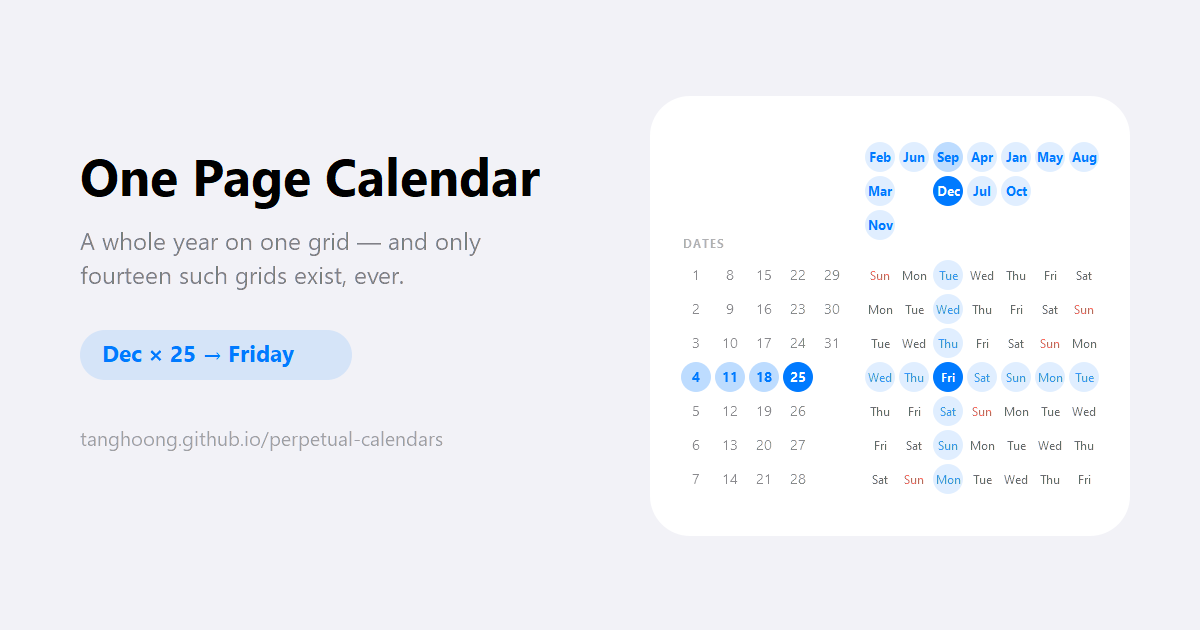
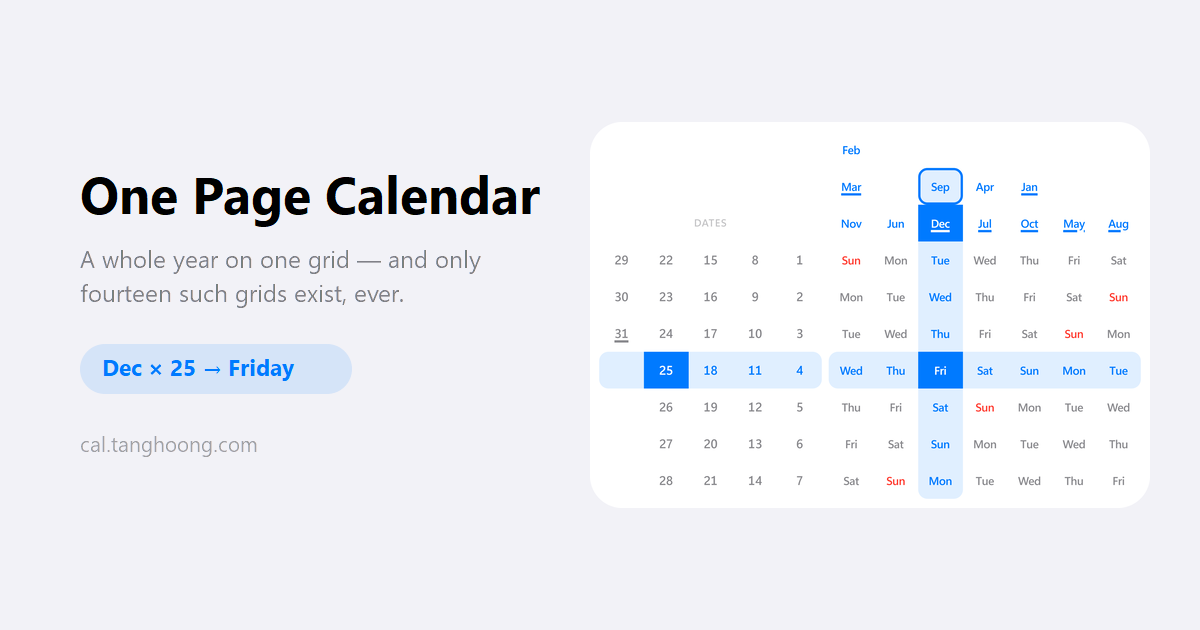
Serve from cal.tanghoong.com
public/CNAME carries the domain into the published artifact; the matching DNS
record is a CNAME on the `cal` host pointing at tanghoong.github.io. A
subdomain wants a CNAME record, not the A/AAAA records an apex needs.

No build code changed to make this work, which was the point of the BASE_PATH
and SITE_URL wiring: a custom domain serves from the root, so configure-pages
simply starts reporting `/` instead of `/perpetual-calendars/`, and the
absolute origin for og:image follows the same way. Only the local fallback
literals moved, so `npm run preview` keeps matching production.

CNAME is excluded from the service worker's precache — it tells GitHub Pages
which domain to answer on and the app never fetches it, so caching it would
only lengthen the install. Its contents still feed the cache version, since a
domain change should invalidate.

The link preview was regenerated from the running app rather than redrawn. The
old one was hand-built and had quietly gone stale: it still showed circles with
gaps, top-packed months and left-to-right dates, none of which the app does any
more. Screenshotting the real card means it cannot drift again.

Also fixes a claim I left behind two commits ago: the features table still
advertised a "Current Year" button that the same change removed.

Note for a future move: a 301 from the old address never reaches a returning
visitor, because the service worker answers navigations from cache before the
[…]

diff --git a/vite.config.ts b/vite.config.ts
@@ -5,13 +5,17 @@ import { defineConfig, type Plugin } from 'vite'
 import react from '@vitejs/plugin-react'
 import tailwindcss from '@tailwindcss/vite'
 
-// GitHub Pages serves this project site from a subpath, so built asset URLs
-// have to carry that prefix or they 404. CI passes the repository's real base
-// path in BASE_PATH (see .github/workflows/deploy.yml), which keeps forks and
-// renames working without a code edit; the literal is the local fallback.
+// Built asset URLs have to carry whatever prefix the site is served from, or
+// they 404. CI passes the real one in BASE_PATH (see
+// .github/workflows/deploy.yml), which keeps a fork or a rename working with no
+// code edit; the literal is only the local fallback.
+//
+// It is `/` because the site serves from the root of cal.tanghoong.com. On a
+// github.io project site it would be `/perpetual-calendars/`, and a fork that
+// has not set up a custom domain still gets that — from CI, not from here.
 // `||` rather than `??` on purpose: an unset step output arrives as '', not
 // undefined, and an empty base would emit root-relative URLs.
-const rawBase = process.env.BASE_PATH || '/perpetual-calendars/'
+const rawBase = process.env.BASE_PATH || '/'
 const base = rawBase.endsWith('/') ? rawBase : `${rawBase}/`
 
 // Open Graph and Twitter card images must be absolute URLs — crawlers fetch
@@ -19,12 +23,18 @@ const base = rawBase.endsWith('/') ? rawBase : `${rawBase}/`
 // not enough. CI supplies the full origin from the same configure-pages step
 // that supplies BASE_PATH; the literal is the local fallback, matching
 // package.json's `homepage`. Trailing slash stripped so the template can own it.
-const siteUrl = (process.env.SITE_URL || 'https://tanghoong.github.io/perpetual-calendars/').replace(
-  /\/+$/,
-  '',
-)
+const siteUrl = (process.env.SITE_URL || 'https://cal.tanghoong.com/').replace(/\/+$/, '')
 
-/** Every file under `public/`, as the paths they are served at. */
+/**
+ * Files the service worker should precache, as the paths they are served at.
+ *
+ * `CNAME` is excluded: it is how GitHub Pages is told which custom domain to
+ * answer on, not something the app ever fetches, so caching it would only
+ * lengthen the install. Its *contents* still feed the cache version, because it
+ * is hashed with the rest of the build — a domain change should invalidate.
+ */
+const PRECACHE_EXCLUDED = new Set(['CNAME'])
+
 const publicFiles = (dir: string, root = dir): string[] =>
   readdirSync(dir).flatMap(entry => {
     const full = join(dir, entry)
@@ -60,10 +70,11 @@ const serviceWorker = (): Plugin => ({
     const hashed = Object.keys(bundle)
     // Stable names, so their contents have to be hashed explicitly.
     const stable = ['index.html', ...publicFiles('public')]
+    const cacheable = stable.filter(f => !PRECACHE_EXCLUDED.has(f))
 
     // Stable order, so an unchanged build produces an unchanged cache name and
     // returning visitors are not handed a pointless re-download.
-    const urls = [...new Set(['', ...stable, ...hashed].map(p => base + p))].sort()
+    const urls = [...new Set(['', ...cacheable, ...hashed].map(p => base + p))].sort()
 
     // Hashing the URL list alone was not enough, and the gap was invisible from
     // the outside: index.html and everything in public/ keep the same filename

diff --git a/README.md b/README.md
@@ -79,7 +79,7 @@ Month and weekday labels switch between **English / 中文 / Melayu / Tiếng Vi
 
 | | |
 |---|---|
-| **Any year, one grid** | Step the year with ◀ / ▶, jump back with **Current Year**, or pick one of the same-grid years below. Only the month labels re-flow. |
+| **Any year, one grid** | Step the year with ◀ / ▶, drag the grid sideways, pick one of the same-grid years below, or jump back with **Today**. Only the month labels re-flow. |
 | **Today, triangulated** | The current month, today's date, and the weekday cell where they intersect are all marked at once — with an outline, not a fill. A fill is what a selection uses, and the two mean different things: selecting the 13th used to put two identical blue squares on screen, one meaning *the answer* and one meaning *today*. |
 | **Crosshair tracing** | Hover or tap any weekday cell and it lights its full row and column — plus the matching months above and the matching dates to the left. The cells are square and the grids have no gaps, so a lit row and column read as one continuous band meeting at a single filled square, rounded at its four outer tips and square everywhere the arms cross. That is the relationship the layout encodes, drawn rather than implied; circles could only ever meet at a point. |
 | **Tap to pin** | On touch devices a tap pins the crosshair until you tap again or press **Clear**, so the lookup survives lifting your finger. Cells are also `<button>`s, so Enter works — and the weekday block is one tab stop with arrow keys inside it, not 49. |
@@ -248,17 +248,32 @@ still hold the token. Only `deploy` can publish, and nothing PR-controlled runs
 there. Every checkout also uses `persist-credentials: false`, so no token is
 left behind in `.git/config`.
 
-### The base path
+### The domain and the base path
 
-The site serves from `https://tanghoong.github.io/perpetual-calendars/`, so the
-built asset URLs need that prefix or they 404. `vite.config.ts` reads it from
-`BASE_PATH`, which CI supplies from `actions/configure-pages` — that action
-resolves the repository's *actual* Pages base path, so a fork or a rename keeps
-working with no code edit. The literal `/perpetual-calendars/` in
-`vite.config.ts` is only the local fallback.
+The site serves from **<https://cal.tanghoong.com>**, a custom domain on GitHub
+Pages. `public/CNAME` carries it into the published artifact; the matching DNS
+record is a `CNAME` on the `cal` host pointing at `tanghoong.github.io.` — a
+subdomain wants a CNAME record, not the `A`/`AAAA` records an apex domain needs.
+
+Built asset URLs have to carry whatever path the site is served from, or they
+404. `vite.config.ts` reads it from `BASE_PATH`, which CI supplies from
+`actions/configure-pages` — that action resolves the site's *actual* base path,
+so this needed **no code change** when the domain moved: a custom domain serves
+from the root, and `configure-pages` simply started reporting `/` instead of
+`/perpetual-calendars/`. It supplies the absolute origin the same way, through
+`SITE_URL`, which is what `og:image` needs. The literals in `vite.config.ts` are
+only the local fallback, and a fork with no custom domain still gets its own
+`/<repo>/` prefix from CI.
 
 `npm run preview` honours the same base, so the local production check hits the
 same URLs the deployed site does.
+
+**A note for anyone moving the domain again.** A 301 from the old address never
+reaches a returning visitor, because the service worker answers navigations from
+its cache before the network. They stay pinned to the old origin indefinitely.
+Unsticking them needs a final build published to the *old* address whose only
+job is to unregister the worker and clear its caches. Moving early, before
+anyone has visited, costs nothing; moving later does not.
 
 ### One-time repository setup
 
@@ -269,16 +284,22 @@ These cannot be done from files. In the repository's web UI:
    "Deploy from a branch". If this repo was previously deploying from a
    `gh-pages` branch, this switch is the migration — after it, the old branch
    is dead weight and can be deleted.
-2. **Settings → Code security → enable** Dependabot alerts, Dependabot security
+2. **DNS, then Settings → Pages → Custom domain → `cal.tanghoong.com`.** The
+   DNS record goes in first, or GitHub's check fails: a `CNAME` on the `cal`
+   host pointing at `tanghoong.github.io.` Once the certificate finishes
+   provisioning, tick **Enforce HTTPS**. `public/CNAME` already carries the
+   domain into the artifact, so the setting and the file agree.
+3. **Settings → Code security → enable** Dependabot alerts, Dependabot security
    updates, secret scanning, and push protection.
-3. **Settings → Code security → Private vulnerability reporting → enable**, so
+4. **Settings → Code security → Private vulnerability reporting → enable**, so
    `SECURITY.md` has a working channel to point at.
-4. **Settings → Rules → Rulesets** — protect `main`: require a pull request,
+5. **Settings → Rules → Rulesets** — protect `main`: require a pull request,
    and require the `Build`, `Analyze JavaScript/TypeScript`, and
    `Review dependency changes` checks to pass.
 
-Step 1 is required for the site to deploy at all. Steps 2–4 are what make the
-security workflows enforcing rather than advisory.
+Step 1 is required for the site to deploy at all, and step 2 for it to answer on
+its own domain. Steps 3–5 are what make the security workflows enforcing rather
+than advisory.
 
 ---
 
